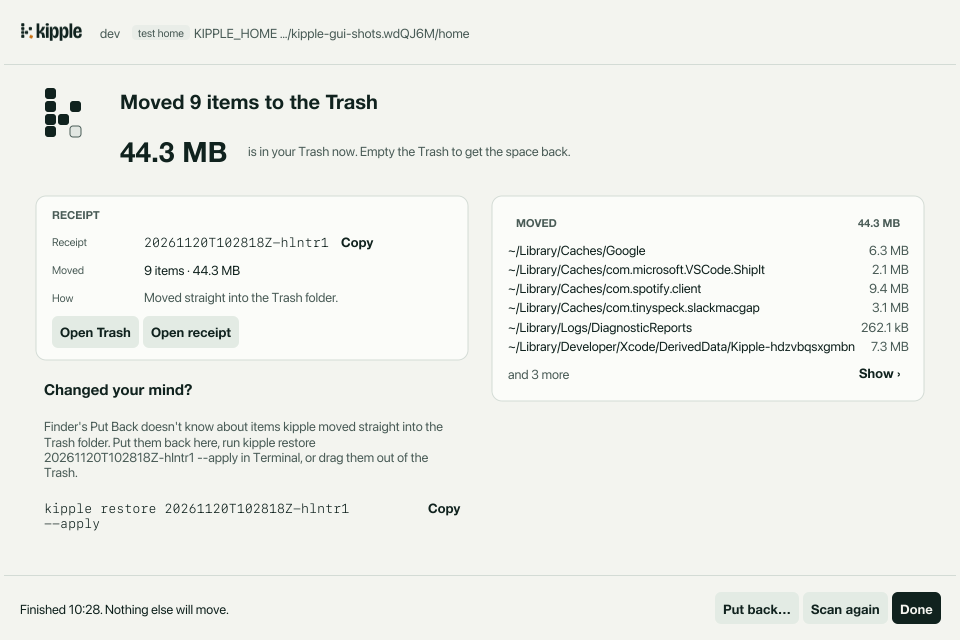
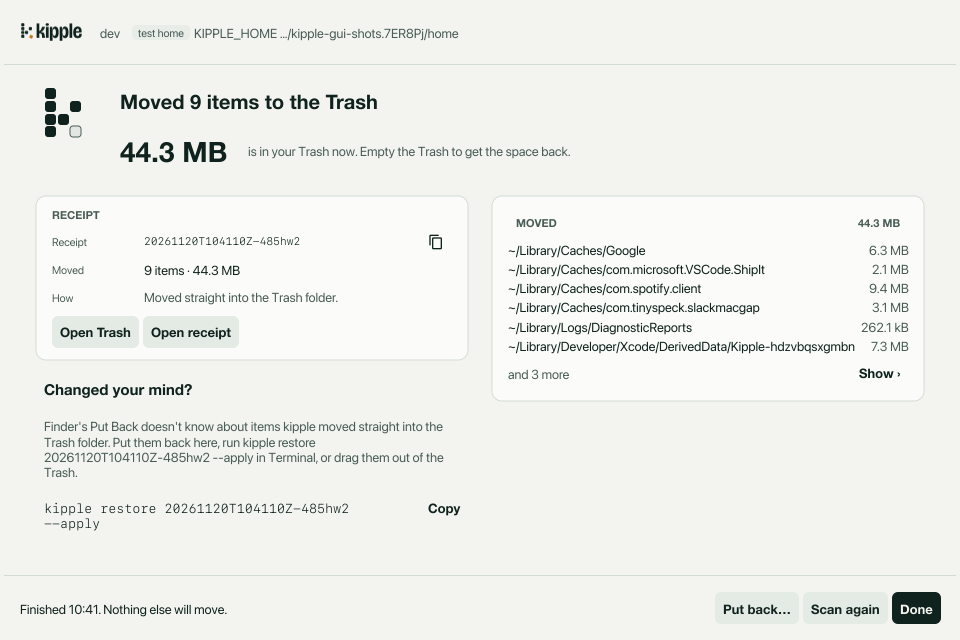
gui: after Put back the done screen reports the put back; done fits 760x520 too
- After Put back, the headline, total and space line describe what went back
  ("Put back 8 of 9 items · 41.2 MB is back where it was."), the lists are
  PUT BACK and STILL IN THE TRASH with each reason, and "Changed your
  mind?" goes once nothing is left. While anything is still in the Trash,
  Put back is offered again; Restore skips what it already put back
  (already_restored), and the results add up. Test: an occupied original
  path leaves one item in the Trash, Put back is offered for it, and after
  the path is cleared a second Put back brings everything back.
- In a short window (the 760x520 minimum) the total joins the title, the
  moved list shows four rows, and "Changed your mind?" runs across the full
  width as one paragraph, so the result fits without scrolling. The receipt
  ID is caption-size monospace with a copy icon and wraps rather than push
  the button out of the card. Tests check the done screen and the put-back
  result fit at 960x640 and 760x520, light and dark.
- docs/images re-rendered.

diff --git a/cmd/kipple-gui/screens.go b/cmd/kipple-gui/screens.go
@@ -236,10 +236,14 @@ func (u *ui) receiptCard(c guimodel.ReceiptCard, buttons bool) fyne.CanvasObject
 		return container.NewBorder(nil, nil, l, nil, value)
 	}
 	plain := func(s string) fyne.CanvasObject { return container.NewCenter(text(s, cInk, sizeBody, false)) }
-	id := text(c.ID, cInk, sizeBody, false)
-	id.TextStyle.Monospace = true
+	// The ID wraps (by character) rather than push Copy out of a narrow card.
+	id := widget.NewRichText(&widget.TextSegment{Text: c.ID, Style: widget.RichTextStyle{ColorName: cInk, SizeName: "kipple.caption", Inline: true, TextStyle: fyne.TextStyle{Monospace: true}}})
+	id.Wrapping = fyne.TextWrapBreak
 	rows := container.NewVBox(text("RECEIPT", cMuted, sizeCaption, true))
-	rows.Add(row("Receipt", container.NewHBox(container.NewCenter(id), linkButton("Copy", func() { u.copyText(c.ID) }))))
+	idLabel := container.New(fixed{80, 0}, container.NewVBox(layout.NewSpacer(), text("Receipt", cMuted, sizeCaption, false), layout.NewSpacer()))
+	copyID := widget.NewButtonWithIcon("", theme.ContentCopyIcon(), func() { u.copyText(c.ID) })
+	copyID.Importance = widget.LowImportance
+	rows.Add(container.NewBorder(nil, nil, idLabel, container.NewCenter(copyID), id))
 	rows.Add(row("Moved", plain(c.Moved)))
 	if c.Skipped > 0 {
 		rows.Add(row("Skipped", plain(itoa(c.Skipped))))
@@ -301,46 +305,73 @@ func (a *absLayout) Layout(objs []fyne.CanvasObject, _ fyne.Size) {
 
 func (u *ui) done() fyne.CanvasObject {
 	d := u.m.Done()
-	head := container.NewVBox(line(d.Title, cInk, "kipple.heading", true))
-	if d.Total != "" {
-		head.Add(container.NewHBox(line(d.Total, cInk, szDisplay, true), container.NewCenter(para(d.SpaceLine, cMuted, theme.SizeNameText, false))))
-		if d.SharedNote != "" {
-			head.Add(para(d.SharedNote, cMuted, theme.SizeNameText, false))
+	// In a short window (the 760x520 minimum) the total joins the title so
+	// the whole result still fits without scrolling.
+	compact := u.win.Canvas().Size().Height < 600
+	head := container.NewVBox()
+	mark := float32(56)
+	switch {
+	case compact:
+		mark = 36
+		title := d.Title
+		if d.Total != "" {
+			title += " · " + d.Total
+		}
+		head.Add(line(title, cInk, "kipple.heading", true))
+		if d.SpaceLine != "" {
+			head.Add(para(d.SpaceLine, cMuted, theme.SizeNameText, false))
+		}
+	default:
+		head.Add(line(d.Title, cInk, "kipple.heading", true))
+		if d.Total != "" {
+			head.Add(container.NewHBox(line(d.Total, cInk, szDisplay, true), container.NewCenter(para(d.SpaceLine, cMuted, theme.SizeNameText, false))))
 		}
 	}
-	top := container.NewBorder(nil, nil, pad(recessMark(56), 4, 0, 0, space4), nil, head)
+	if d.SharedNote != "" {
+		head.Add(para(d.SharedNote, cMuted, theme.SizeNameText, false))
+	}
+	top := container.NewBorder(nil, nil, pad(recessMark(mark), 4, 0, 0, space4), nil, head)
 
 	// Left: the receipt and how to change your mind. Right: what moved and
 	// what was skipped. The whole result fits the default 960x640 window.
 	left := container.NewVBox(u.receiptCard(d.Card, true))
-	if d.ChangedMind != "" {
-		left.Add(spacer(1, 4))
-		left.Add(line("Changed your mind?", cInk, "kipple.subheading", true))
-		left.Add(para(d.ChangedMind, cMuted, theme.SizeNameText, false))
-		left.Add(container.NewBorder(nil, nil, nil, container.NewVBox(linkButton("Copy", func() { u.copyText(d.Command) })), monoPara(d.Command, cInk)))
+	// "Changed your mind?" sits under the receipt card; in a short window it
+	// runs across the full width below both cards, where it needs fewer lines.
+	mind := container.NewVBox()
+	switch {
+	case d.ChangedMind != "" && compact:
+		// One paragraph led by the heading, to save lines.
+		mind.Add(rich(seg("Changed your mind? ", cInk, theme.SizeNameText, true), seg(d.ChangedMind, cMuted, theme.SizeNameText, false)))
+	case d.ChangedMind != "":
+		mind.Add(spacer(1, 4))
+		mind.Add(line("Changed your mind?", cInk, "kipple.subheading", true))
+		mind.Add(para(d.ChangedMind, cMuted, theme.SizeNameText, false))
 	}
-	if d.Restored != nil {
-		left.Add(spacer(1, 4))
-		left.Add(para(d.Restored.Title, cInk, "kipple.subheading", true))
-		for _, s := range d.Restored.Skipped {
-			left.Add(skipLine(s))
-		}
+	if d.ChangedMind != "" {
+		mind.Add(container.NewBorder(nil, nil, nil, container.NewVBox(linkButton("Copy", func() { u.copyText(d.Command) })), monoPara(d.Command, cInk)))
+	}
+	if !compact {
+		left.Add(mind)
 	}
 	right := container.NewVBox()
 	if len(d.Moved) > 0 {
-		right.Add(container.NewBorder(nil, nil, line("MOVED", cMuted, "kipple.caption", true), line(d.Total, cMuted, "kipple.caption", true)))
-		for _, l := range d.Moved {
+		right.Add(container.NewBorder(nil, nil, line(d.MovedLabel, cMuted, "kipple.caption", true), line(d.Total, cMuted, "kipple.caption", true)))
+		rows, more := d.Moved, d.MovedMore
+		if compact && len(rows) > 4 && !u.m.ShowingAllMoved() {
+			rows, more = rows[:4], more+len(rows)-4
+		}
+		for _, l := range rows {
 			right.Add(container.NewBorder(nil, nil, nil, text(l.Text, cMuted, sizeBody, false), newPathText(l.Path, cInk, sizeBody)))
 		}
-		if d.MovedMore > 0 {
-			right.Add(container.NewBorder(nil, nil, text("and "+itoa(d.MovedMore)+" more", cMuted, sizeBody, false), linkButton("Show ›", func() { u.m.ShowAllMoved(); u.update() })))
+		if more > 0 {
+			right.Add(container.NewBorder(nil, nil, text("and "+itoa(more)+" more", cMuted, sizeBody, false), linkButton("Show ›", func() { u.m.ShowAllMoved(); u.update() })))
 		}
 	}
 	if len(d.Skipped) > 0 || d.NotTried > 0 {
 		if len(right.Objects) > 0 {
 			right.Add(spacer(1, space3))
 		}
-		right.Add(line("SKIPPED", cMuted, "kipple.caption", true))
+		right.Add(line(d.SkippedLabel, cMuted, "kipple.caption", true))
 		for _, s := range d.Skipped {
 			right.Add(skipLine(s))
 		}
@@ -359,7 +390,17 @@ func (u *ui) done() fyne.CanvasObject {
 		rightCol.Add(para("Warning: "+w, cInk, theme.SizeNameText, false))
 	}
 	cols := container.New(halves{space5}, left, rightCol)
-	u.doneScroll = container.NewVScroll(pad(container.NewVBox(top, spacer(1, space3), cols), space3, space3, space6, space6))
+	gap := float32(space3)
+	if compact {
+		gap = 4
+	}
+	body := container.NewVBox(top, spacer(1, gap), cols)
+	padTop, padBottom := float32(space3), float32(space5)
+	if compact {
+		body.Add(mind)
+		padTop, padBottom = 8, space3
+	}
+	u.doneScroll = container.NewVScroll(pad(body, padTop, padBottom, space6, space6))
 	return u.doneScroll
 }
 

diff --git a/internal/guimodel/done.go b/internal/guimodel/done.go
@@ -103,6 +103,9 @@ type DoneView struct {
 	CanPutBack bool
 	// Restored summarises a put back, once it has run.
 	Restored *RestoredView
+	// MovedLabel and SkippedLabel head the two lists: MOVED and SKIPPED,
+	// or after Put back, PUT BACK and STILL IN THE TRASH.
+	MovedLabel, SkippedLabel string
 }
 
 // RestoredView is the result of Put back.
@@ -119,7 +122,7 @@ func (m *Model) Done() DoneView {
 		bytes += mv.Bytes
 		reclaim += mv.ReclaimableBytes
 	}
-	v := DoneView{Card: m.receiptCard()}
+	v := DoneView{Card: m.receiptCard(), MovedLabel: "MOVED", SkippedLabel: "SKIPPED"}
 	moved := len(r.Moved)
 	tried := moved
 	for _, s := range r.Skipped {
@@ -183,30 +186,64 @@ func (m *Model) Done() DoneView {
 		// macOS's Trash command did not have it, and Finder's Put Back
 		// works for those items, so the app offers Put back only after a
 		// run that moved items straight into the Trash folder.
-		v.CanPutBack = rename && m.restored == nil
+		v.CanPutBack = rename && (m.restored == nil || len(m.restored.Skipped) > 0)
 	}
 	if m.restored != nil {
-		rv := &RestoredView{}
-		n := len(m.restored.Restored)
-		switch {
-		case n == 0:
-			rv.Title = "Nothing was put back."
-		case len(m.restored.Skipped) > 0:
-			rv.Title = "Put back " + itoa(n) + " of " + words.Items(n+len(m.restored.Skipped)) + "."
-		default:
-			rv.Title = "Put back " + words.Items(n) + "."
-		}
-		for _, s := range m.restored.Skipped {
-			sentence, next := words.Skip(s.Reason)
-			rv.Skipped = append(rv.Skipped, Line{Path: m.Rel(s.Path), Text: sentence, Next: next})
-		}
-		v.Restored = rv
+		m.restoredView(&v)
 	}
 	return v
 }
 
+// restoredView turns the done screen into the put back's result: what went
+// back and what is still in the Trash, with why. The receipt card stays.
+// Put back stays offered while anything is still in the Trash.
+func (m *Model) restoredView(v *DoneView) {
+	rs := m.restored
+	n, k := len(rs.Restored), len(rs.Skipped)
+	rv := &RestoredView{}
+	switch {
+	case n == 0:
+		rv.Title = "Nothing was put back."
+	case k > 0:
+		rv.Title = "Put back " + itoa(n) + " of " + words.Items(n+k) + "."
+	default:
+		rv.Title = "Put back " + words.Items(n) + "."
+	}
+	var bytes int64
+	v.Moved, v.Skipped, v.NotTried = nil, nil, 0
+	for i, it := range rs.Restored {
+		bytes += it.Bytes
+		if i < 6 || m.showAllMove {
+			v.Moved = append(v.Moved, Line{Path: m.Rel(it.Path), Text: output.Bytes(it.Bytes)})
+		}
+	}
+	v.MovedMore = n - len(v.Moved)
+	for _, sk := range rs.Skipped {
+		sentence, next := words.Skip(sk.Reason)
+		l := Line{Path: m.Rel(sk.Path), Text: sentence, Next: next}
+		rv.Skipped = append(rv.Skipped, l)
+		v.Skipped = append(v.Skipped, l)
+	}
+	v.Restored = rv
+	v.Title = strings.TrimSuffix(rv.Title, ".")
+	v.MovedLabel, v.SkippedLabel = "PUT BACK", "STILL IN THE TRASH"
+	v.Total, v.SpaceLine, v.SharedNote = "", "", ""
+	if n > 0 {
+		v.Total = output.Bytes(bytes)
+		v.SpaceLine = "is back where it was."
+	}
+	if k > 0 {
+		v.SharedNote = words.Items(k) + " " + isAre(k) + " still in the Trash; the list says why."
+	} else {
+		v.ChangedMind, v.Command = "", ""
+	}
+}
+
 // ShowAllMoved expands the moved list in place.
 func (m *Model) ShowAllMoved() { m.showAllMove = true }
+
+// ShowingAllMoved reports whether the moved list is expanded.
+func (m *Model) ShowingAllMoved() bool { return m.showAllMove }
 
 // Result returns the latest apply result.
 func (m *Model) Result() plan.Result { return m.result }
@@ -239,6 +276,9 @@ type PutBackView struct {
 // PutBack describes the put-back confirmation.
 func (m *Model) PutBack() PutBackView {
 	n := len(m.result.Moved) + len(m.result.Displaced) + len(m.pending)
+	if m.restored != nil {
+		n = len(m.restored.Skipped)
+	}
 	return PutBackView{
 		Title: "Put " + words.Items(n) + " back?",
 		Body:  "Each item goes back to where it was, but only if that place is free and the item in the Trash is the one kipple moved there. Nothing is overwritten. This is what kipple restore " + output.SafeText(m.result.ReceiptID) + " --apply does.",
@@ -303,7 +343,19 @@ func (m *Model) PutBackDone(res plan.Result, err error) {
 		})
 		return
 	}
-	m.restored = &res
+	// Put back may run again for what is left; Restore skips the items it
+	// already put back (already_restored), so the results add up.
+	merged := plan.Result{Skipped: []plan.SkippedItem{}}
+	if m.restored != nil {
+		merged.Restored = append(merged.Restored, m.restored.Restored...)
+	}
+	merged.Restored = append(merged.Restored, res.Restored...)
+	for _, sk := range res.Skipped {
+		if sk.Reason != plan.SkipAlreadyRestored {
+			merged.Skipped = append(merged.Skipped, sk)
+		}
+	}
+	m.restored = &merged
 	m.sheet = SheetNone
 	m.hint = strings.TrimSuffix(m.Done().Restored.Title, ".") + ". The receipt records it."
 }

diff --git a/internal/guimodel/states_test.go b/internal/guimodel/states_test.go
@@ -117,3 +117,54 @@ func TestMissingTrashNote(t *testing.T) {
 		t.Fatalf("%+v", v)
 	}
 }
+
+// After Put back the done screen reports the put back, not the move; when
+// something could not go back (its place is taken), Put back is offered
+// again, and a second run adds up with the first.
+func TestPartialPutBackAndRetry(t *testing.T) {
+	f := newFx(t, fixtureSpec())
+	m := f.scanned()
+	m.OpenConfirm()
+	if err := m.ApplyNow(); err != nil {
+		t.Fatal(err)
+	}
+	total := len(m.Result().Moved)
+	blocker := testutil.Abs(f.home, "Library/Logs/app")
+	if err := os.Mkdir(blocker, 0o755); err != nil {
+		t.Fatal(err)
+	}
+	m.OpenPutBack()
+	if err := m.PutBackNow(); err != nil {
+		t.Fatal(err)
+	}
+	d := m.Done()
+	want := "Put back " + itoa(total-1) + " of " + itoa(total) + " items"
+	if d.Title != want || d.SpaceLine != "is back where it was." || d.MovedLabel != "PUT BACK" || d.SkippedLabel != "STILL IN THE TRASH" {
+		t.Fatalf("%+v", d)
+	}
+	if strings.Contains(d.SpaceLine+d.SharedNote, "Empty the Trash") || d.SharedNote != "1 item is still in the Trash; the list says why." {
+		t.Fatalf("space line %q note %q", d.SpaceLine, d.SharedNote)
+	}
+	if len(d.Skipped) != 1 || d.Skipped[0].Text != "Something is already at its original path." || !d.CanPutBack || d.ChangedMind == "" {
+		t.Fatalf("%+v", d)
+	}
+	m.OpenPutBack()
+	if v := m.PutBack(); v.Title != "Put 1 item back?" {
+		t.Fatalf("%+v", v)
+	}
+	m.CancelPutBack()
+	if err := os.Remove(blocker); err != nil {
+		t.Fatal(err)
+	}
+	m.OpenPutBack()
+	if err := m.PutBackNow(); err != nil {
+		t.Fatal(err)
+	}
+	d = m.Done()
+	if d.Title != "Put back "+itoa(total)+" items" || len(d.Skipped) != 0 || d.CanPutBack || d.ChangedMind != "" || len(d.Moved)+d.MovedMore != total {
+		t.Fatalf("%+v", d)
+	}
+	if entries, _ := os.ReadDir(testutil.Abs(f.home, ".Trash")); len(entries) != 0 {
+		t.Fatalf("Trash still holds %d", len(entries))
+	}
+}

diff --git a/cmd/kipple-gui/screenshot_test.go b/cmd/kipple-gui/screenshot_test.go
@@ -71,4 +71,29 @@ func TestScreenshots(t *testing.T) {
 	u.update()
 	capture(t, u, out, "gui-done-light.png")
 	assertDoneFits(t, u)
+	setVariant(u, true)
+	capture(t, u, out, "gui-done-dark.png")
+	u.win.Resize(fyne.NewSize(760, 520))
+	u.update()
+	capture(t, u, out, "gui-done-min-dark.png")
+	assertDoneFits(t, u)
+	setVariant(u, false)
+	capture(t, u, out, "gui-done-min-light.png")
+	u.win.Resize(fyne.NewSize(960, 640))
+	u.update()
+
+	// Put back, from the done screen.
+	u.m.OpenPutBack()
+	u.update()
+	capture(t, u, out, "gui-putback-light.png")
+	if err := u.m.PutBackNow(); err != nil {
+		t.Fatal(err)
+	}
+	u.update()
+	capture(t, u, out, "gui-restored-light.png")
+	assertDoneFits(t, u)
+	u.win.Resize(fyne.NewSize(760, 520))
+	u.update()
+	capture(t, u, out, "gui-restored-min-light.png")
+	assertDoneFits(t, u)
 }

diff --git a/cmd/kipple-gui/gui_test.go b/cmd/kipple-gui/gui_test.go
@@ -355,7 +355,7 @@ func assertDoneFits(t *testing.T, u *ui) {
 	}
 }
 
-func TestDoneFitsDefaultWindow(t *testing.T) {
+func TestDoneFitsTheWindow(t *testing.T) {
 	fixture(t)
 	u := newTestUI(t, false)
 	u.m.ScanNow()
@@ -364,9 +364,12 @@ func TestDoneFitsDefaultWindow(t *testing.T) {
 	if err := u.m.ApplyNow(); err != nil {
 		t.Fatal(err)
 	}
-	u.update()
-	_ = u.win.Canvas().Capture()
-	assertDoneFits(t, u)
+	for _, size := range []fyne.Size{fyne.NewSize(960, 640), fyne.NewSize(760, 520)} {
+		u.win.Resize(size)
+		u.update()
+		_ = u.win.Canvas().Capture()
+		assertDoneFits(t, u)
+	}
 }
 
 // Open Trash and Open receipt pass /usr/bin/open only a real folder and a
